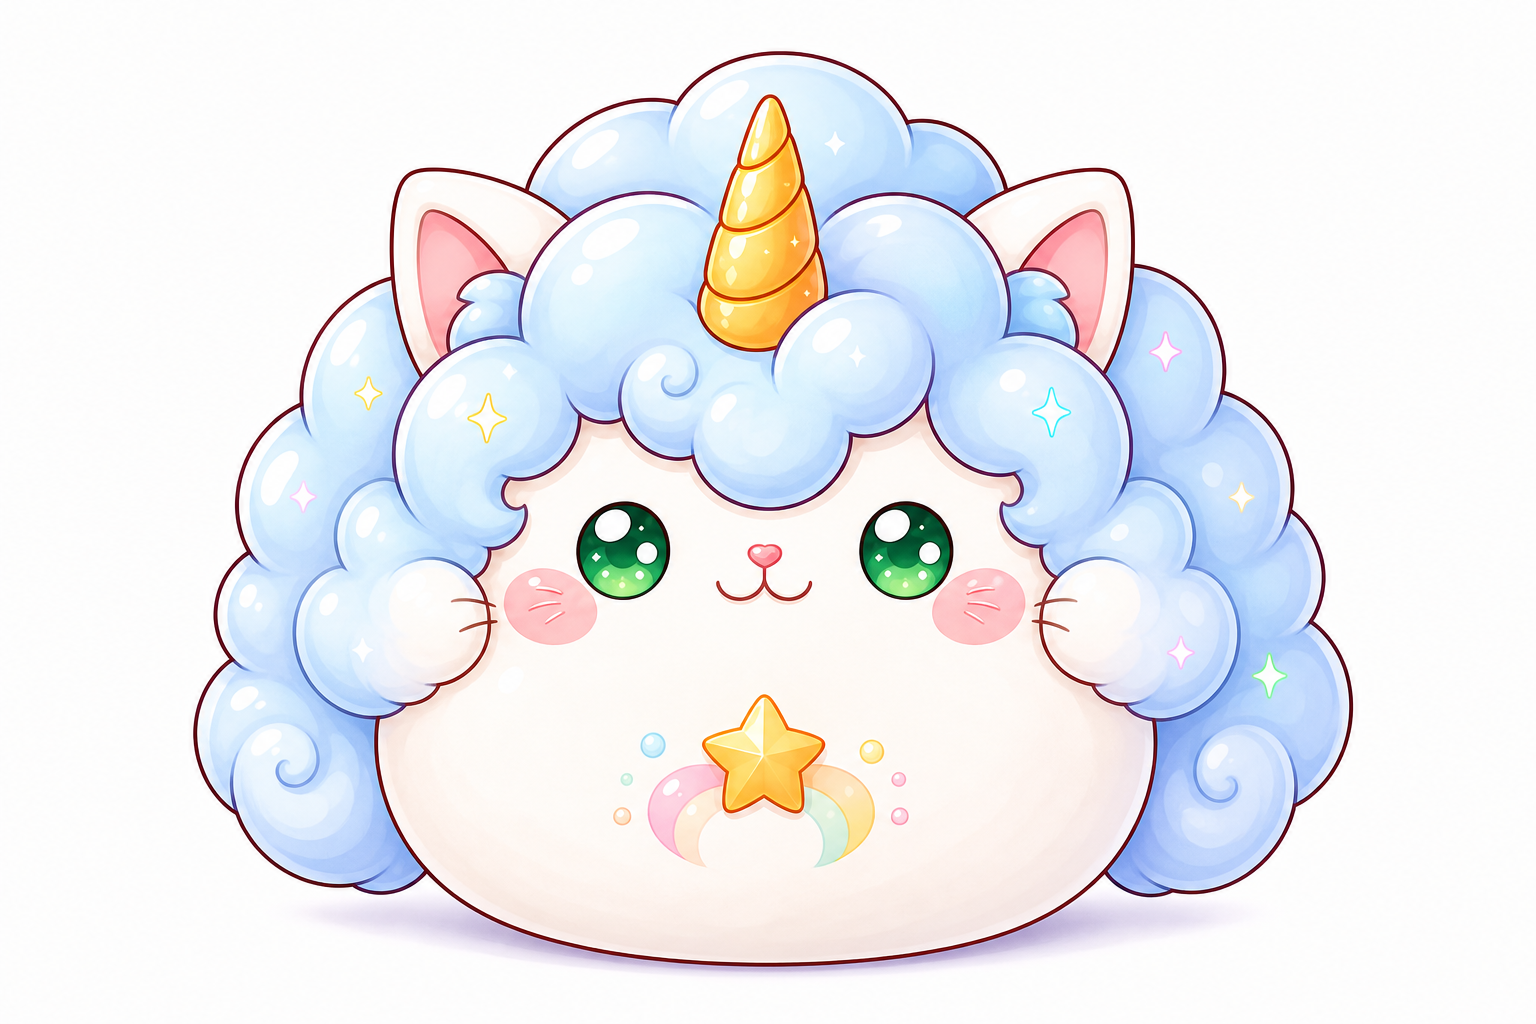
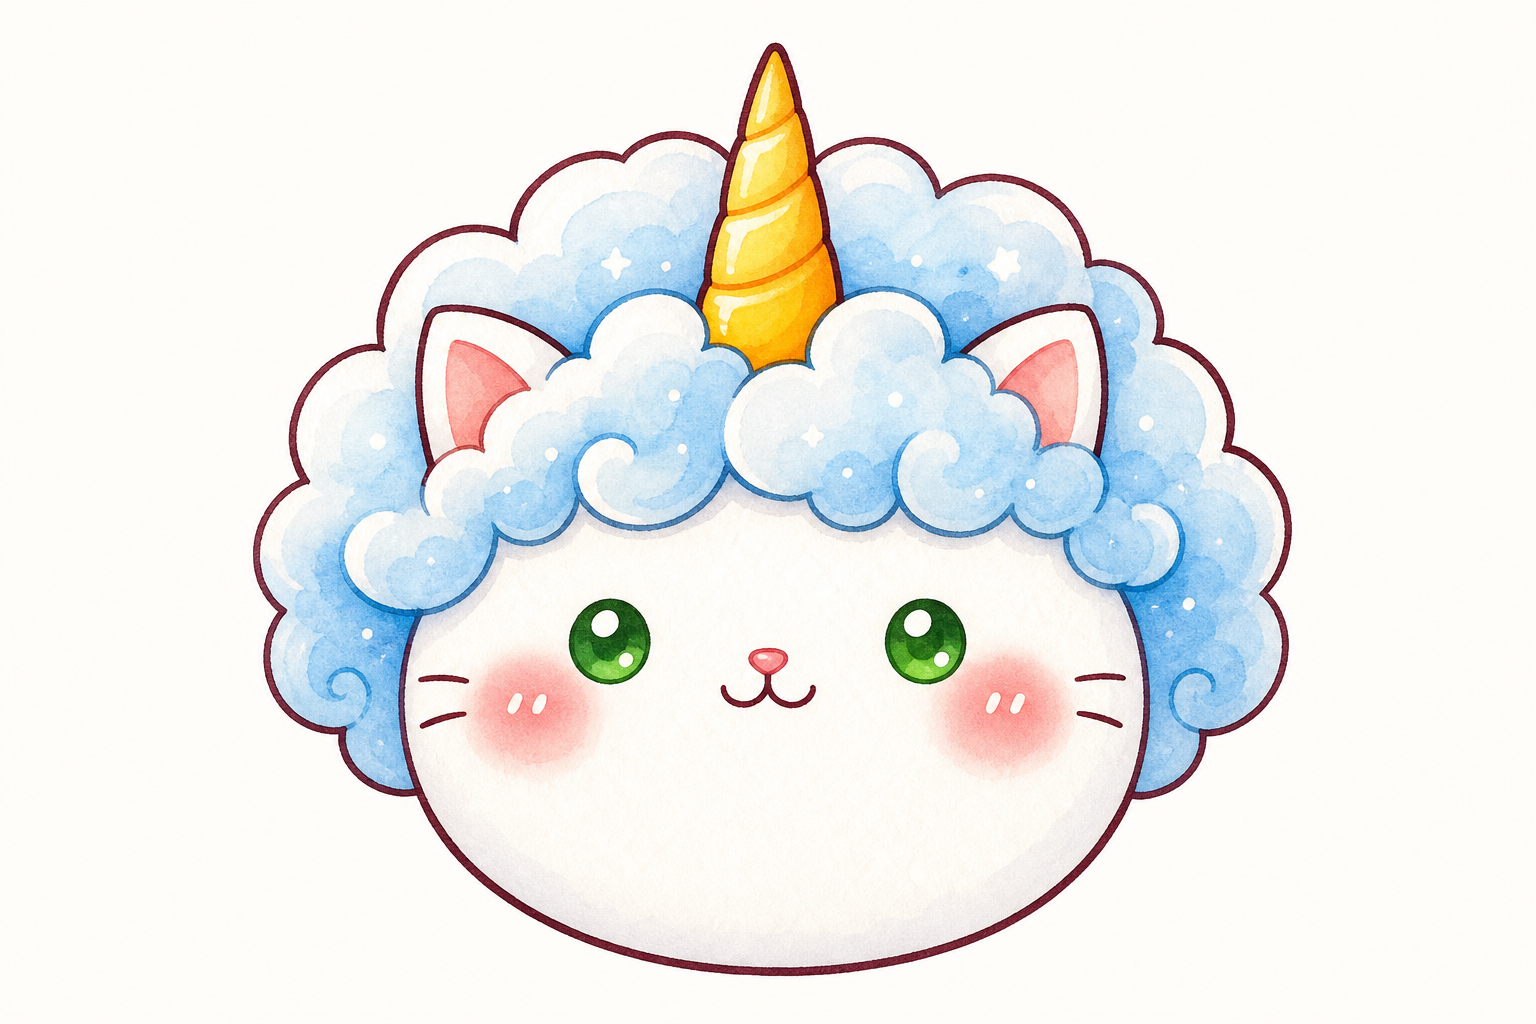
fix: white screen on max-level pet + replace all 4 asset images
Bug fix:
- Remove conic-gradient (poor iOS Safari support) from PetDisplay
- Replace rainbow ring with CSS border-gradient trick (compatible)
- Use Record<number, string> for PET_IMGS with null-safe access
- Add onError handler to pet image to prevent crash on load fail
- Clamp lvl to [0,3] with Math.min/max for safety
- Rainbow ring now uses rotating border with linear-gradient fallback

New images (4 total):
- pet_lv1.png: chibi unicorn cat with blue cloud mane (Lv1)
- pet_lv2.png: standing fluffy creature with blue spots + green eyes (Lv2)
- pet_lv3.png: same chibi unicorn cat, slightly more magical (Lv3)
- mole.png: round cream hamster with pink-red flower decoration

Changed region(s): [[0.125, 0.0312, 0.9062, 0.9688], [0.4688, 0.5312, 0.5312, 0.5938]]

diff --git a/word-game/src/components/PetDisplay.tsx b/word-game/src/components/PetDisplay.tsx
@@ -1,15 +1,12 @@
 /**
- * Pet display — three distinct images for levels 1/2/3, with light decorations.
- * Level 0: Egg
- * Level 1: 魔法小猫 — soft pink glow
- * Level 2: 星光精灵 — blue/purple glow + wings + orbiting stars
- * Level 3: 彩虹女王 — rainbow ring + crown + full sparkles
+ * Pet display — uses level-specific images with safe CSS effects.
+ * No conic-gradient (poor Safari support). Uses drop-shadow + radial glow + simple rings.
  */
 import petLv1 from '../assets/pet_lv1.png';
 import petLv2 from '../assets/pet_lv2.png';
 import petLv3 from '../assets/pet_lv3.png';
 
-const PET_IMGS = [null, petLv1, petLv2, petLv3] as const;
+const PET_IMGS: Record<number, string> = { 1: petLv1, 2: petLv2, 3: petLv3 };
 
 interface Props {
   level: number;
@@ -19,90 +16,93 @@ interface Props {
 }
 
 export function PetDisplay({ level, isEating = false, isLevelingUp = false, size = 140 }: Props) {
-  const lvl = Math.min(level, 3);
+  const lvl = Math.min(Math.max(0, level), 3);
+
   if (lvl === 0) return <EggDisplay size={size} isEating={isEating} />;
 
-  const img = PET_IMGS[lvl]!;
-  // Scale up slightly each level
-  const imgSize = size * [0, 0.78, 0.90, 1.04][lvl];
+  const img = PET_IMGS[lvl];
+  if (!img) return <EggDisplay size={size} isEating={isEating} />;
+
+  const scaleArr = [0, 0.78, 0.90, 1.04];
+  const imgSize = size * (scaleArr[lvl] ?? 0.78);
+  const container = size * 1.8;
 
   return (
-    <div style={{
-      position: 'relative',
-      width: size * 1.8,
-      height: size * 1.8,
-      display: 'flex',
-      alignItems: 'center',
-      justifyContent: 'center',
-    }}>
+    <div style={{ position: 'relative', width: container, height: container,
+      display: 'flex', alignItems: 'center', justifyContent: 'center' }}>
 
-      {/* ── Level 3: Rainbow outer ring ── */}
-      {lvl === 3 && (
-        <div style={{
-          position: 'absolute',
-          width: imgSize * 1.6,
-          height: imgSize * 1.6,
-          borderRadius: '50%',
-          background: 'conic-gradient(from 0deg,#f87171 0%,#fb923c 15%,#facc15 30%,#4ade80 45%,#60a5fa 60%,#a78bfa 75%,#f472b6 90%,#f87171 100%)',
-          animation: 'spinRainbow 4s linear infinite',
-          opacity: 0.4,
-        }} />
-      )}
-
-      {/* ── Level 3: Inner gold shimmer ── */}
-      {lvl === 3 && (
-        <div style={{
-          position: 'absolute',
-          width: imgSize * 1.3,
-          height: imgSize * 1.3,
-          borderRadius: '50%',
-          background: 'conic-gradient(from 0deg,#fde68a,#fbbf24,#fde68a,#f59e0b,#fde68a)',
-          animation: 'spinRainbow 2.2s linear infinite reverse',
-          opacity: 0.3,
-        }} />
-      )}
-
-      {/* ── Level 2+: Ambient glow ── */}
+      {/* ── Ambient glow (all levels) ── */}
       <div style={{
         position: 'absolute',
-        width: imgSize * 1.5,
-        height: imgSize * 1.5,
+        width: imgSize * 1.55,
+        height: imgSize * 1.55,
         borderRadius: '50%',
-        background: lvl === 3
-          ? 'radial-gradient(ellipse,rgba(255,215,0,.5) 0%,rgba(167,139,250,.25) 55%,transparent 75%)'
-          : lvl === 2
-          ? 'radial-gradient(ellipse,rgba(139,92,246,.45) 0%,rgba(96,165,250,.2) 55%,transparent 75%)'
-          : 'radial-gradient(ellipse,rgba(249,168,212,.5) 0%,rgba(216,180,254,.18) 60%,transparent 78%)',
+        background:
+          lvl === 3 ? 'radial-gradient(ellipse, rgba(255,215,0,0.45) 0%, rgba(255,140,0,0.2) 45%, transparent 72%)'
+          : lvl === 2 ? 'radial-gradient(ellipse, rgba(100,149,237,0.45) 0%, rgba(147,112,219,0.22) 50%, transparent 72%)'
+          : 'radial-gradient(ellipse, rgba(255,182,193,0.55) 0%, rgba(216,180,254,0.2) 55%, transparent 75%)',
         animation: 'petGlow 2.5s ease-in-out infinite alternate',
       }} />
 
-      {/* ── Level 2+: Translucent wings ── */}
-      {lvl >= 2 && (
+      {/* ── Level 3: Rotating colored ring (no conic-gradient) ── */}
+      {lvl === 3 && (
         <>
-          {[{ side: 'left', style: { left: size * 0.02, borderRadius: '80% 20% 20% 70%', transform: 'rotate(-22deg)', background: lvl === 3 ? 'linear-gradient(135deg,rgba(250,204,21,.65) 0%,rgba(167,139,250,.4) 55%,transparent 100%)' : 'linear-gradient(135deg,rgba(96,165,250,.6) 0%,rgba(167,139,250,.35) 60%,transparent 100%)' } }, { side: 'right', style: { right: size * 0.02, borderRadius: '20% 80% 70% 20%', transform: 'rotate(22deg)', background: lvl === 3 ? 'linear-gradient(225deg,rgba(250,204,21,.65) 0%,rgba(167,139,250,.4) 55%,transparent 100%)' : 'linear-gradient(225deg,rgba(96,165,250,.6) 0%,rgba(167,139,250,.35) 60%,transparent 100%)' } }].map(({ side, style }) => (
-            <div key={side} style={{
-              position: 'absolute',
-              top: '36%',
-              width: imgSize * 0.65,
-              height: imgSize * 0.72,
-              filter: 'blur(1.5px)',
-              animation: `wingFlap ${side === 'left' ? 2 : 2.15}s ease-in-out infinite alternate`,
-              zIndex: 0,
-              ...style,
-            }} />
-          ))}
+          <div style={{
+            position: 'absolute',
+            width: imgSize * 1.5,
+            height: imgSize * 1.5,
+            borderRadius: '50%',
+            border: `${Math.max(4, imgSize * 0.05)}px solid transparent`,
+            background: `linear-gradient(white,white) padding-box,
+                         linear-gradient(var(--a,0turn), #f87171, #fb923c, #facc15, #4ade80, #60a5fa, #a78bfa, #f472b6, #f87171) border-box`,
+            animation: 'spinRainbow 3.5s linear infinite',
+            opacity: 0.7,
+          }} />
+          <div style={{
+            position: 'absolute',
+            width: imgSize * 1.28,
+            height: imgSize * 1.28,
+            borderRadius: '50%',
+            border: `${Math.max(3, imgSize * 0.04)}px solid rgba(255,215,0,0.55)`,
+            animation: 'spinRainbow 2.2s linear infinite reverse',
+            boxShadow: '0 0 12px rgba(255,200,0,0.5)',
+          }} />
         </>
       )}
 
-      {/* ── Level 2+: Orbiting sparkles ── */}
+      {/* ── Level 2+: Wings ── */}
+      {lvl >= 2 && [
+        { isLeft: true },
+        { isLeft: false },
+      ].map(({ isLeft }) => (
+        <div key={isLeft ? 'l' : 'r'} style={{
+          position: 'absolute',
+          top: '36%',
+          ...(isLeft ? { left: size * 0.01 } : { right: size * 0.01 }),
+          width: imgSize * 0.62,
+          height: imgSize * 0.7,
+          background: lvl === 3
+            ? `linear-gradient(${isLeft ? 135 : 225}deg, rgba(255,215,0,0.6) 0%, rgba(255,165,0,0.35) 50%, transparent 100%)`
+            : `linear-gradient(${isLeft ? 135 : 225}deg, rgba(100,149,237,0.6) 0%, rgba(147,112,219,0.35) 55%, transparent 100%)`,
+          borderRadius: isLeft ? '80% 20% 20% 70%' : '20% 80% 70% 20%',
+          transform: `rotate(${isLeft ? -20 : 20}deg)`,
+          filter: 'blur(1.5px)',
+          animation: `wingFlap ${isLeft ? 2.0 : 2.15}s ease-in-out infinite alternate`,
+          zIndex: 0,
+        }} />
+      ))}
+
+      {/* ── Level 2+: Sparkle stars ── */}
       {lvl >= 2 && (['✨','⭐','💫','✨'] as const).map((e, i) => (
         <span key={i} style={{
           position: 'absolute',
           fontSize: lvl === 3 ? size * 0.14 : size * 0.11,
-          top:  `${[6, 2, 70, 68][i]}%`,
-          left: `${[8, 70, 8, 72][i]}%`,
+          top:  ['6%', '2%', '70%', '68%'][i],
+          left: ['8%', '70%', '8%', '72%'][i],
           animation: `floatSpark ${1.0 + i * 0.35}s ease-in-out infinite alternate`,
-          filter: lvl === 3 ? 'drop-shadow(0 0 6px #ffd700)' : 'drop-shadow(0 0 4px #a78bfa)',
+          filter: lvl === 3
+            ? 'drop-shadow(0 0 5px rgba(255,200,0,0.9))'
+            : 'drop-shadow(0 0 4px rgba(147,112,219,0.8))',
           zIndex: 4,
         }}>{e}</span>
       ))}
@@ -111,11 +111,10 @@ export function PetDisplay({ level, isEating = false, isLevelingUp = false, size
       {lvl === 3 && (
         <div style={{
           position: 'absolute',
-          top: `calc(50% - ${imgSize * 0.5 + size * 0.18}px)`,
-          left: '50%',
-          transform: 'translateX(-50%)',
-          fontSize: size * 0.22,
-          filter: 'drop-shadow(0 0 8px rgba(255,200,0,.9))',
+          top: Math.max(0, container * 0.5 - imgSize * 0.5 - size * 0.2),
+          left: '50%', transform: 'translateX(-50%)',
+          fontSize: Math.max(16, size * 0.2),
+          filter: 'drop-shadow(0 0 8px rgba(255,200,0,0.9))',
           zIndex: 5,
           animation: 'floatSpark 1.5s ease-in-out infinite alternate',
         }}>👑</div>
@@ -127,9 +126,9 @@ export function PetDisplay({ level, isEating = false, isLevelingUp = false, size
           position: 'absolute',
           bottom: `${7 + i * 3}%`,
           left: `${14 + i * 28}%`,
-          fontSize: size * 0.1,
+          fontSize: size * 0.09,
           animation: `floatSpark ${1.3 + i * 0.3}s ease-in-out infinite alternate`,
-          filter: 'drop-shadow(0 0 4px #ffd700)',
+          filter: 'drop-shadow(0 0 4px rgba(255,200,0,0.8))',
           zIndex: 4,
         }}>{e}</span>
       ))}
@@ -137,7 +136,7 @@ export function PetDisplay({ level, isEating = false, isLevelingUp = false, size
       {/* ── Pet image ── */}
       <img
         src={img}
-        alt={`pet level ${lvl}`}
+        alt={`pet lv${lvl}`}
         style={{
           width: imgSize,
           height: imgSize,
@@ -149,13 +148,13 @@ export function PetDisplay({ level, isEating = false, isLevelingUp = false, size
             : isLevelingUp
             ? 'bounceIn 0.6s ease-out'
             : 'petBob 3s ease-in-out infinite',
-          filter: lvl === 3
-            ? 'drop-shadow(0 0 14px rgba(255,200,50,.85)) drop-shadow(0 0 28px rgba(167,139,250,.5))'
-            : lvl === 2
-            ? 'drop-shadow(0 0 9px rgba(96,165,250,.7)) drop-shadow(0 0 18px rgba(167,139,250,.4))'
-            : 'drop-shadow(0 0 7px rgba(249,168,212,.7)) drop-shadow(0 2px 6px rgba(0,0,0,.1))',
-          transition: 'filter .4s, width .4s, height .4s',
+          filter:
+            lvl === 3 ? 'drop-shadow(0 0 14px rgba(255,200,50,0.85)) drop-shadow(0 0 28px rgba(255,140,0,0.4))'
+            : lvl === 2 ? 'drop-shadow(0 0 9px rgba(100,149,237,0.75)) drop-shadow(0 0 18px rgba(147,112,219,0.4))'
+            : 'drop-shadow(0 0 7px rgba(255,182,193,0.75)) drop-shadow(0 2px 6px rgba(0,0,0,0.1))',
+          transition: 'filter 0.4s',
         }}
+        onError={e => { (e.currentTarget as HTMLImageElement).style.display = 'none'; }}
       />
 
       {/* ── Eating coin burst ── */}
@@ -174,33 +173,29 @@ export function PetDisplay({ level, isEating = false, isLevelingUp = false, size
 // ── Egg ──────────────────────────────────────────────────────────────────────
 function EggDisplay({ size: s, isEating }: { size: number; isEating: boolean }) {
   return (
-    <div style={{
-      position: 'relative', width: s * 1.5, height: s * 1.5,
-      display: 'flex', alignItems: 'center', justifyContent: 'center',
-    }}>
+    <div style={{ position: 'relative', width: s * 1.5, height: s * 1.5,
+      display: 'flex', alignItems: 'center', justifyContent: 'center' }}>
       <div style={{
         position: 'absolute', inset: '10%', borderRadius: '50%',
-        background: 'radial-gradient(ellipse,rgba(255,235,180,.5) 0%,transparent 70%)',
+        background: 'radial-gradient(ellipse, rgba(255,235,180,0.5) 0%, transparent 70%)',
         animation: 'petGlow 3s ease-in-out infinite alternate',
       }} />
       <div style={{
         width: s * 0.72, height: s * 0.88,
-        background: 'radial-gradient(ellipse at 38% 30%,#fff9f0 0%,#fde8c8 55%,#f5c98e 100%)',
+        background: 'radial-gradient(ellipse at 38% 30%, #fff9f0 0%, #fde8c8 55%, #f5c98e 100%)',
         borderRadius: '50% 50% 50% 50% / 60% 60% 40% 40%',
-        boxShadow: 'inset -8px -8px 18px rgba(0,0,0,.07),inset 5px 5px 12px rgba(255,255,255,.85),0 8px 24px rgba(0,0,0,.1)',
+        boxShadow: 'inset -8px -8px 18px rgba(0,0,0,0.07), inset 5px 5px 12px rgba(255,255,255,0.85), 0 8px 24px rgba(0,0,0,0.1)',
         display: 'flex', alignItems: 'center', justifyContent: 'center',
         flexDirection: 'column', gap: 5,
-        animation: isEating ? 'eggWiggle .4s ease-in-out 3' : 'petBob 3s ease-in-out infinite',
+        animation: isEating ? 'eggWiggle 0.4s ease-in-out 3' : 'petBob 3s ease-in-out infinite',
         position: 'relative', overflow: 'hidden',
       }}>
         <div style={{
-          position: 'absolute', top: '10%', left: '20%',
-          width: '26%', height: '18%',
-          background: 'rgba(255,255,255,.7)',
-          borderRadius: '50%', transform: 'rotate(-30deg)',
+          position: 'absolute', top: '10%', left: '20%', width: '26%', height: '18%',
+          background: 'rgba(255,255,255,0.7)', borderRadius: '50%', transform: 'rotate(-30deg)',
         }} />
-        <span style={{ fontSize: s * 0.28, filter: 'drop-shadow(0 2px 4px rgba(200,160,80,.4))' }}>❓</span>
-        <span style={{ fontSize: s * 0.11, color: '#b8904a', fontWeight: 800, letterSpacing: 2, opacity: .75 }}>???</span>
+        <span style={{ fontSize: s * 0.28, filter: 'drop-shadow(0 2px 4px rgba(200,160,80,0.4))' }}>❓</span>
+        <span style={{ fontSize: s * 0.11, color: '#b8904a', fontWeight: 800, letterSpacing: 2, opacity: 0.75 }}>???</span>
       </div>
     </div>
   );

diff --git a/word-game/src/index.css b/word-game/src/index.css
@@ -120,6 +120,15 @@
   from { transform: rotate(0deg); }
   to   { transform: rotate(360deg); }
 }
+/* Rainbow ring uses border rotation hack */
+@property --a {
+  syntax: '<angle>';
+  initial-value: 0turn;
+  inherits: false;
+}
+@keyframes rainbowSpin {
+  to { --a: 1turn; }
+}
 @keyframes floatSpark {
   0%   { transform: translateY(0) scale(0.9); opacity: 0.7; }
   100% { transform: translateY(-10px) scale(1.1); opacity: 1; }
